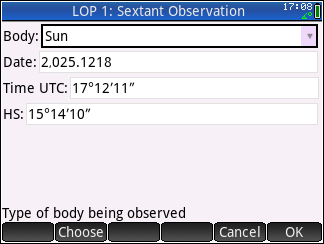
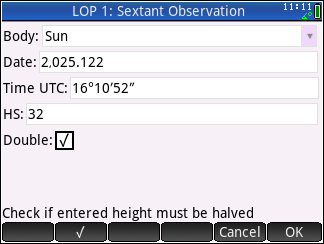
Fixed solar index correction behavior

diff --git a/README.md b/README.md
@@ -14,10 +14,20 @@ The sight reduction formulas used in this program were derived from many sources
 For an excellent textbook on celestial navigation and the process of sight reduction, refer to *Celestial Navigation: A Complete Home Study Course* by David Burch and Tobias Burch.
 
 # Installing the Program
-The program can be installed on the calculator or on the [virtual calculator program](https://www.hpcalc.org/details/8939) from the *.txt* source files in the main directory of this repository or from the binaries in the */bin* directory. 
+The program can be installed on the calculator or on the [virtual calculator program](https://www.hpcalc.org/details/8939) from the *.txt* source files in the main directory of this repository or from the binary files in the */bin* directory. 
 When all is done, your Connectivity Kit screen should look like this:
 
 ![Connectivity Kit screen shot](https://github.com/placidanomaly/HPPrimeSightReduction/blob/main/img/connectivity.png)
+
+## Installing from the Binaries (RECOMMENDED)
+
+To install from the binaries, the *.hpprgm* files must be loaded into the Connectivity kit:
+
+1. Download and install the [HP Connectivity Kit](https://updates.moravia-consulting.com/)
+2. Launch the HP Connectivity Kit program
+3. Connect an HP Prime Calculator to the computer with a USB cable and confirm that the Connectivity Kit sees the calculator
+4. Drag all the *.hpprgm* files in the */bin* directory of the repository into the **Content** section of the HP Connectivity Kit program
+5. Drag all the files in the **Content** window of the HP Connectivity Kit program onto the **Programs** section label of the calculator
 
 ## Installing from the Source Files
 
@@ -36,28 +46,21 @@ When all is done, your Connectivity Kit screen should look like this:
 13. Select the **Sight Reduction** program, press **Run**, select **RESET_SIGHTS** and press **Enter**. This will initialize all the necessary variables for the program to work.
 14. To confirm everything is working, select the **Sight Reduction** program, press **Run**, select **EPHEMERIDES** and press **Enter**. Fill out the form and press **Enter**. The requested ephemerides should be displayed on the screen. Check them against an Almanac.
 
-## Installing from the Binaries
-
-To install from the binaries, the *.hpprgm* files must be loaded into the Connectivity kit:
-
-1. Download and install the [HP Connectivity Kit](https://updates.moravia-consulting.com/)
-2. Launch the HP Connectivity Kit program
-3. Connect an HP Prime Calculator to the computer with a USB cable and confirm that the Connectivity Kit sees the calculator
-4. Drag all the *.hpprgm* files in the */bin* directory of the repository into the **Content** section of the HP Connectivity Kit program
-5. Drag all the files in the **Content** window of the HP Connectivity Kit program onto the **Programs** section label of the calculator
-
 After this setup, all the functions can be accessed by running the **Sight Reduction** program.
 
 # Using the Program
 ## Initialization and Setting the Time and Timezone
-The first thing to do is to initialize lists and variables, set default values, and set the time and timezone of the calculator:
+**\*IMPORTANT\*** The first thing to do is to initialize lists and variables, set default values, and set the time and timezone of the calculator. This must also be done every time after editing a program even if no changes were made to it. Proceed as follows:
 
 1. Highlight the **Sight Reduction** program and press the **Run** soft key
-2. From the list of options, pick **RESET** on the touchscreen or with the arrows and the *Enter* key. Click any key to dismiss the confirmation message.
-3. Now re-run the program and pick **SET_TIME** and set the calculator's local time clock and the timezone:
+2. From the list of options, pick **RESET_SIGHTS** on the touchscreen or with the arrows and the *Enter* key, or press the *8* key. Click any key to dismiss the confirmation message.
+
+![Resetting variables](https://github.com/placidanomaly/HPPrimeSightReduction/blob/main/img/sightreductionprograms.png)
+
+4. Now re-run the program and pick **SET_TIME** and set the calculator's local time clock and timezone:
 
    * **Local time**: the local time to which to set the calculator. Enter a time a few seconds in the future and click the **Ok** soft key when your watch reads the time entered
-   * **UTC Offset**: the number of hours ahead or behind of UTC. Use a positive value for locations West of Greenwhich and negative for East. Keep in mind that this offset changes with Daylight Savings Time (DST)   
+   * **UTC Offset**: the number of hours ahead of or behind UTC. Use a positive value for locations West of Greenwhich and negative for East (e.g. -5 for New York standard time). Keep in mind that this offset changes with Daylight Savings Time (DST)
 
 ![Setting the time and timezone](https://github.com/placidanomaly/HPPrimeSightReduction/blob/main/img/settime.png)
 
@@ -77,6 +80,22 @@ It can be helpful to know which celestial bodies will be visible and where ahead
 The output will be shown in the Spreadsheet app and will include, for each celestial body meeting the minimum elevation and azimuth range criteria, the azimuth, elevation, Greenwhich Hour Angle (GHA), declination (dec), and the semi-diameter in seconds of the body (if applicable):
 
 ![List of bodies](https://github.com/placidanomaly/HPPrimeSightReduction/blob/main/img/listbodies_output.png)
+
+** Calculating Index Correction from Sun diameter (OPTIONAL)
+
+The program contains a function to apply the index correction method described by the Starpath School of Nabigation in [this document](https://www.starpath.com/online/celestial/solar_ic.pdf). After running this program, the default value for the index correction in the sight reduction forms will be set to the value calculated by this procedure (otherwise the default index correction value will be zero). To run the program, highlight the **Sight Reduction** program and hit the **6** key to run the **SOLAR_IC** program. The program briefly describes the measurements that need to be taken:
+
+![Solar IC intro](https://github.com/placidanomaly/HPPrimeSightReduction/blob/main/img/solaric_intro.png)
+
+You can then enter the *top* and *Bottom* measurements in minutes in the input form:
+
+![Solar IC input](https://github.com/placidanomaly/HPPrimeSightReduction/blob/main/img/solaric_input.png)
+
+The program will present the calculated index correction result as well as the implied semi-diameter of the sun, which is then compared with the actual semi-diameter of the sun at the current time. This allows validating the inputs used before applying the calculated index correction to future sights:
+
+![Solar IC output](https://github.com/placidanomaly/HPPrimeSightReduction/blob/main/img/solaric_output.png)
+
+After pressing a key, the program prompts whether to accept or reject the calculated index correction. If accepted, the value will be applied to all sights that did not have a manually entered index correction.
 
 ## Performing a Sight Reduction
 All the steps to perform a sight reduction, from capturing sextant observations to plotting lines of position and identifying a fix are done within the **Sight Reduction** program. The other programs support ephemeris calculations which were too big to fit within a single program. Those programs need to be present for **Sight Reduction** to work, but they do not need to be invoked by the user under normal usage scenarios. 
